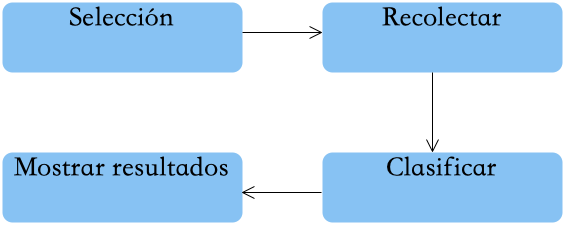
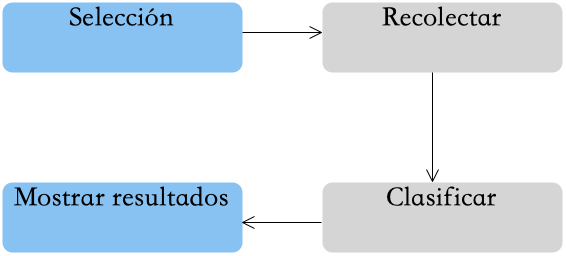
Se ha terminado la re-esctrucuración de la sección de la aplicación web en el capiutlo 5

diff --git a/Analisis/DocumentoAnalisis/Capitulos/Capitulo5-ImplementacionPruebas/3.Proceso-ApplicacionWeb.tex b/Analisis/DocumentoAnalisis/Capitulos/Capitulo5-ImplementacionPruebas/3.Proceso-ApplicacionWeb.tex
@@ -1,13 +1,11 @@
 \section[Aplicación]{Aplicación web}
 
 
-Como se establecio en el obejetivo de este trabajo (ver \Tref{cp1:objetivoG}{Objetivo general}), se ha desarrollado una aplicación para recolectar y clasificar noticias, las cuales son mostrados en un entorno web. En esta sección se explica el proceso de funcionamiento de la aplicación web.\\
+Como se estableció en el objetivo de este trabajo (ver \Tref{cp1:objetivoG}{Objetivo general}), se ha creado una aplicación para recolectar y clasificar noticias, las cuales son mostrados en un entorno web.En esta sección se explica el proceso de funcionamiento de la aplicación web.\\
 
+Para el desarrollo de esta  herramienta se ha ocupado \textbf{Java} para el procesamiento de los datos y para diseñar la vista se ha ocupado: \textbf{HTML}, \textbf{CSS} y \textbf{Java server faces}, ademas para conectar el proceso de recolección y clasificación (escritos en \textbf{Python 3}) se hecho uso de \textbf{subprocesos}, los cuales son proceso que corre en segundo plano.\\
 
-
-La aplicación esta dieseñada en 4 etapas, las cuales son mostradas en la Figura \ref{fig:procesoAppWeb}, donde la etapa \textbf{Selección} describe las secciones disponibles para obtener noticias; la etapa \textbf{Recolectar} muestra la integración de los \textit{crawlwers} en la herramienta; la etapa \textbf{Clasificar} hace uzo del modelo clasificador desarrollado en la sección anterior y para concluir, la etapa \textbf{Mostrar resultados} describe la forma en que los datos son presentados al usuario. A continuación se explica a detalla cada una las tareas.
-
-
+La aplicación esta diseñada en 4 etapas, las cuales son mostradas en la Figura \ref{fig:procesoAppWeb}, donde la etapa \textbf{Selección} describe las secciones disponibles para obtener noticias; la etapa \textbf{Recolectar} muestra la integración de los \textit{crawlwers} en la herramienta; la etapa \textbf{Clasificar} hace uzo del modelo clasificador desarrollado en la sección anterior y para concluir, la etapa \textbf{Mostrar resultados} describe la forma en que los datos son presentados al usuario. Es importante mencionar que las etapas en color azul cielo siempre son ejecutadas, sin embargo las de color gris no siempre son llevadas acabo. A continuación se explica a detalla cada una las tareas.
 
 
 \begin{figure}[H]
@@ -38,7 +36,7 @@ Esta etapa permite elegir al usuario el tipo de noticias a buscar. La aplicació
 \begin{figure}[H]
 \centering
 \includegraphics[scale=0.29]{imagenes/Capitulo5/pantallaPrincipal.png}
-\caption{Pantalla de Inicio.}
+\caption{Pantalla de Inicio}
 \label{fig:PantallaInicio}
 \end{figure}
 
@@ -50,12 +48,12 @@ Después de elegir una sección, se muestra el mensaje \textbf{En proceso de rec
 	\item \textbf{Límite de periodo}: Esta condición define 4 horas como el periodo de recolección, es decir cuando se ha solicitado mostrar las noticias de una sección y ha transcurrido 4 horas des de la última petición, se debe proceder con las siguientes etapas
 \end{enumerate}	
 
-Como consecuencia de no cumplirse estas condiciones, las etapas \textbf{Recolectar y Clasificar} no son iniciadas, debido a que los artículos con su clasificación correspondiente se encuentran almacenados en el sistema, por esta razón se procede directamente con la etapa \textbf{Mostrar resultado}.\\
+Como consecuencia de no cumplirse estas condiciones, las etapas \textbf{Recolectar y Clasificar} no son iniciadas, debido a que los artículos con su clasificación correspondiente se encuentran almacenados en el sistema, por esta razón se procede directamente con la etapa \textbf{Mostrar resultado}.
 
 \begin{figure}[H]
 \centering
 \includegraphics[scale=0.29]{imagenes/Capitulo5/mensajeEspera.png}
-\caption{Mensaje de espera.}
+\caption{Mensaje de espera}
 \label{fig:loading}
 \end{figure}
 
@@ -74,7 +72,7 @@ Esta etapa genera un subproceso el cual activa un script (desarrollado en \textb
 	\item \textbf{Noticia}
 \end{itemize}
 
-La extracción de las noticias se hace en la página principal de los sitios web. Cabe destacar que en el proceso de recolección se valida que las noticias contengan al menos 180 palabras, de lo contrario no se extrae. Ademas se ha definido un tiempo máximo de espera en esta etapa, el cual es de 84 segundos, después de concluir el periodo y haber recolectado la información, se procede con la etapa de \textbf{Clasificación}, de lo contrario si no se recolecto ninguna noticia se muestra el mensaje \textbf{Se ha agotado el tiempo de espera, no se han encontrado noticias, intentar mas tarde} (como se visualiza en la Figura \ref{fig:notNoRec}) y se detiene el proceso.
+La extracción de las noticias se hace en la página principal de los sitios web. Cabe destacar que en el proceso de recolección se valida que las noticias contengan al menos 180 palabras (en la redacción de \textbf{Noticia}), de lo contrario no se extrae. Ademas se ha definido un tiempo máximo de espera en esta etapa, el cual es de 84 segundos, después de concluir el periodo y haber recolectado la información, se procede con la etapa de \textbf{Clasificación}, de lo contrario si no se recolecto ninguna noticia se muestra el mensaje \textbf{Se ha agotado el tiempo de espera, no se han encontrado noticias, intentar mas tarde} (como se visualiza en la Figura \ref{fig:notNoRec}) y se detiene el proceso.
 
 \begin{figure}[H]
 \centering
@@ -85,7 +83,7 @@ La extracción de las noticias se hace en la página principal de los sitios web
 
 \subsection{Clasificar}
 
-Después de recolectar las noticias se inicia la etapa de clasificación, el cual esta conformado por 5 tareas (como se muestra en la Figura \ref{clasificacion}). Esta etapa genera un subproceso para ejecutar un script desarrollado en \textbf{Python 3}, el cual esta encargado de llevar acabo cada tarea. Cabe destacar que el proceso de clasificación solo utiliza el contenido de la noticia, los demás datos no son necesarios en esta etapa. A continuación se explica cada subtareas.
+Después de recolectar las noticias se inicia la etapa de clasificación, el cual esta conformado por 5 tareas (como se muestra en la Figura \ref{clasificacion}). Esta etapa genera un subproceso para ejecutar un script desarrollado en \textbf{Python 3}, el cual está encargado de llevar acabo cada tarea de esta sección. Cabe destacar que el proceso de clasificación solo utiliza el contenido de la noticia, los demás datos no son necesarios en esta etapa. A continuación se explica cada subtarea.
 
 \begin{figure}[H]
 \centering
@@ -96,10 +94,14 @@ Después de recolectar las noticias se inicia la etapa de clasificación, el cua
 
 \begin{enumerate}
 
-	\item \textbf{Limpieza}: En esta etapa se eliminan todos los saltos de línea
+	\item \textbf{Limpieza}: En la sección de \textbf{Entrenamiento} el proceso de limpieza (ver \Tref{cp5:limpieza}{Limpieza}) consiste en eliminar texto que no brinda información útil como, hipertexto (ver \Tref{cp3:html}{HTML}), símbolos especiales (como \# $\dagger$ $\sqrt{ }$), \textit{emojis} (como \dSmiley \dCooley \dNinja), sin embargo en esta etapa no es necesario hacer esta limpieza, debido a que el vocabulario definido no contiene estos datos, por esta razón estos símbolos son ignorados en la extracción de características. Cabe señalar que lo único que es eliminado son los saltos de línea
+
 	\item \textbf{Tokenizar}: Consiste en separar el texto en sus elementos mínimos por un espacio (ver \Tref{cp5:tokenizacion}{Tokenizar})
+
 	\item \textbf{Lematrizer}: Proceso que reduce cada una de las palabras tokenizadas en lemas(ver \Tref{cp5:lematizacion}{Lematizar})
-	\item \textbf{Extracción de características}: Se extrae palabras (características) con base al vocabulario definido al final de la etapa de entrenamiento (ver \ref{}), para crear un espacio vectorial por cada noticia (esta es la representación que el algoritmo entiende). Cabe destacar que las características son extraídas de forma binaria (ver \Tref{cp5:extraccion}{Extracción de características})
+
+	\item \textbf{Extracción de características}: Se extrae palabras (características) con base al vocabulario definido al final de la etapa de entrenamiento (ver \Tref{cp5:persistencia}{Persistencia}), para crear un espacio vectorial por cada noticia (esta es la representación que el algoritmo entiende). Cabe destacar que las características son extraídas de forma binaria (ver \Tref{cp5:extraccion}{Extracción de características})
+
 	\item \textbf{Clasificar}: Al final de la sección \textbf{Entrenamiento} se persistió el modelo clasificador (ver \Tref{cp5:persistencia}{Persistencia}) el cual esta basado en el algoritmo \textbf{Maquinas de soporte vectorial} (ver \Tref{cp3:msv}{MSV}). Esta tarea utiliza el clasificador el cual recibe como entrada los vectores de características(los cuales representan el contenido de cada artículo) y como salida brinda la clasificación del conjunto de noticias, y son almacenadas por sección en un archivo \textbf{CSV}
 
 \end{enumerate}
@@ -107,8 +109,7 @@ Después de recolectar las noticias se inicia la etapa de clasificación, el cua
 
 \subsection{Mostrar resultados}
 
-
-Cuando el proceso de clasificación ha concluido se muestra el mensaje \textbf{Noticias listas para ser mostradas}, donde el usuario tiene la opción de elegir si desea visualizar las noticias o cancelar, como se visualiza en la Figura \ref{fig:notClass}.
+Esta etapa consiste en presentar el resultado del proceso de clasificación en la herramienta. Cuando este proceso ha concluido se muestra el mensaje \textbf{Noticias listas para ser mostradas}, donde el usuario tiene la opción de elegir visualizar las noticias o cancelar el flujo del sistema, como se visualiza en la Figura \ref{fig:notClass}.
 
 \begin{figure}[H]
 \centering
@@ -117,23 +118,43 @@ Cuando el proceso de clasificación ha concluido se muestra el mensaje \textbf{N
 \label{fig:notClass}
 \end{figure}
 
-Si el usuario ha presionado la opción \textbf{continuar}, los artículos clasificados de la sección elegida son obtenidos. En la pantalla principal, las noticias se muestran por fecha de publicación, la información que se muestra es: \textbf{título de la noticia}, \textbf{resumen de la noticia}(de contar con ello), \textbf{autor} y finalmente la \textbf{fecha de publicación}. Como se muestra en la Figura \ref{fig:vistaNoticias}.
+Si el usuario ha presionado la opción \textbf{Cancelar}, el proceso concluye y la herramienta muestra la Pantalla de Inicio (ver \ref{fig:PantallaInicio}), de lo contrario si se ha dado clic en \textbf{continuar}, se lleva acabo el proceso mostrado en la Figura \ref{fig:cp5:mostrar}, las tareas en color azul cielo siempre son llevadas acabo y las de color gris son opcionales. A continuación estas etapas son descritas.
+
+\begin{figure}[H]
+\centering
+\includegraphics[scale=0.55]{imagenes/Capitulo5/AplicacionWeb/MostrarDatosApp.png}
+\caption{Funcionalidad de la aplicación}
+\label{fig:cp5:mostrar}
+\end{figure}
+
+
+\begin{enumerate}
+
+	\item \textbf{Cargar noticias}: En el proceso de clasificación se crea un archivo \textbf{CSV} por cada sección con las noticias correspondientes, en esta etapa se obtiene los artículos de la sección elegida por el usuario
+
+	\item \textbf{Mostrar noticias}: En la pantalla principal, las noticias se muestran por fecha de publicación, los datos mostrados por cada noticia son: \textbf{título de la noticia}, \textbf{resumen de la noticia}(de contar con ello), \textbf{autor} y finalmente la \textbf{fecha de publicación}. Como se muestra en la Figura \ref{fig:vistaNoticias}
+
+
+	\item \textbf{Filtro fecha}: En la sección de las noticias, se muestra un menú con las opciones: \textbf{Hoy}, \textbf{Ayer}, \textbf{Dos días} y \textbf{Tres días o mas}. Este es una herramienta que permite filtrar los artículos por fecha de publicación. Por ejemplo, si el usuario desea visualizar noticias de un día anterior a la registrada por el sistema, se debe seleccionar la opción \textbf{Ayer}, en seguida la información de este periodo se muestra, como en la Figura \ref{fig:vistaNoticiasAyer}. Es importante mencionar que las noticias mostradas por defecto son las del día de consulta (\textbf{Hoy})
+
+	\item \textbf{Ingresar al sitio de origen}: Cada noticia mostrada contiene la \textbf{URL} al sitio de origen de la noticia, si el usuario desea leer el artículo completo se debe dar clic en la noticia y la aplicación redirige el buscador a la pagina fuente
+
+\end{enumerate}
+
 
 \begin{figure}[H]
 \centering
 \includegraphics[scale=0.29]{imagenes/Capitulo5/noticiasDeHoy.png}
-\caption{Vista de las noticias recolectadas.}
+\caption{Vista de las noticias recolectadas}
 \label{fig:vistaNoticias}
 \end{figure}
 
 
-Si el usuario desea visualizar noticias del dia de ayer, la vista que tendrá se muestra en la Figura \ref{fig:vistaNoticiasAyer}.
-\\
+
+
 \begin{figure}[H]
 \centering
 \includegraphics[scale=0.29]{imagenes/Capitulo5/noticiasDeAyer.png}
-\caption{Vista de las noticias recolectadas del día de ayer.}
+\caption{Vista de las noticias recolectadas del día de ayer}
 \label{fig:vistaNoticiasAyer}
 \end{figure}
-
-Existe la posibilidad de que no se recolecten noticias, si después de 84 segundos, no se realizó la recolección de noticias debido a una falla con nuestra conectividad de Internet, la pantalla que el usuarió tendrá se muestra en la Figura 

diff --git a/Analisis/DocumentoAnalisis/Capitulos/Capitulo5-ImplementacionPruebas/2.Proceso-Entrenamiento.tex b/Analisis/DocumentoAnalisis/Capitulos/Capitulo5-ImplementacionPruebas/2.Proceso-Entrenamiento.tex
@@ -30,10 +30,11 @@ Cabe destacar que estas etapas están desarrolladas en un script escrito en el l
 
 %----------------------------------%
 %\begin{large}
+\Tlabel{cp5:limpieza}
 \subsubsection{Limpieza}
 %\end{large}
 
-Esta etapa consiste en eliminar texto que no brinda información útil para el entrenamiento como, hipertexto (ver), símbolos especiales (como \# $\dagger$ $\sqrt{ }$), \textit{emojis} (como \dSmiley \dCooley \dNinja). Por ejemplo el texto \ref{box:cp5:texto} muestra la redacción de una noticia con la información descargada de una pagina web. El resultado de limpiar la noticia se muestra en el texto \ref{box:cp5:limpio}. Se puede observar que se han eliminado los elementos $<p>\ </p>\ <!--\ -->$ \# $\dagger$ \dSmiley \dCooley \dInnocey.\\
+Esta etapa consiste en eliminar texto que no brinda información útil para el entrenamiento como, hipertexto (ver \Tref{cp3:html}{HTML}), símbolos especiales (como \# $\dagger$ $\sqrt{ }$), \textit{emojis} (como \dSmiley \dCooley \dNinja). Por ejemplo el texto \ref{box:cp5:texto} muestra la redacción de una noticia con la información descargada de una pagina web. El resultado de limpiar la noticia se muestra en el texto \ref{box:cp5:limpio}. Se puede observar que se han eliminado los elementos $<p>\ </p>\ <!--\ -->$ \# $\dagger$ \dSmiley \dCooley \dInnocey.\\
 
 Para realizar esta tarea se han ocupando las librerías; \textbf{pandas} como medio de lectura de archivos tipo \textbf{CSV} (\textit{comma separeted values}, por sus siglas en ingles); \textbf{re} la cual permite evaluar expresiones regulares con el objetivo de eliminar símbolos; \textbf{demoji} quien permite eliminar \textit{emojis} dentro del texto.\\
 

diff --git a/Analisis/DocumentoAnalisis/Capitulos/Capitulo3-MarcoTeorico/S3-AplicacionWeb.tex b/Analisis/DocumentoAnalisis/Capitulos/Capitulo3-MarcoTeorico/S3-AplicacionWeb.tex
@@ -34,7 +34,7 @@ Comúnmente llamada la Web, esta colección de páginas representa una gran cant
 para cualquier persona con una computadora y una conexión a Internet.
 
 %--------------------------------------HTML-------------------------------------------%
-
+\Tlabel{cp3:html}
 \section[HTML]{Hypertext markup language}
 HyperText Markup Language (\textit{HTML}, por sus siglas en ingles), 
 es un lenguaje que permite presentar contenido en la Web y fue propuesto por primera vez por 
